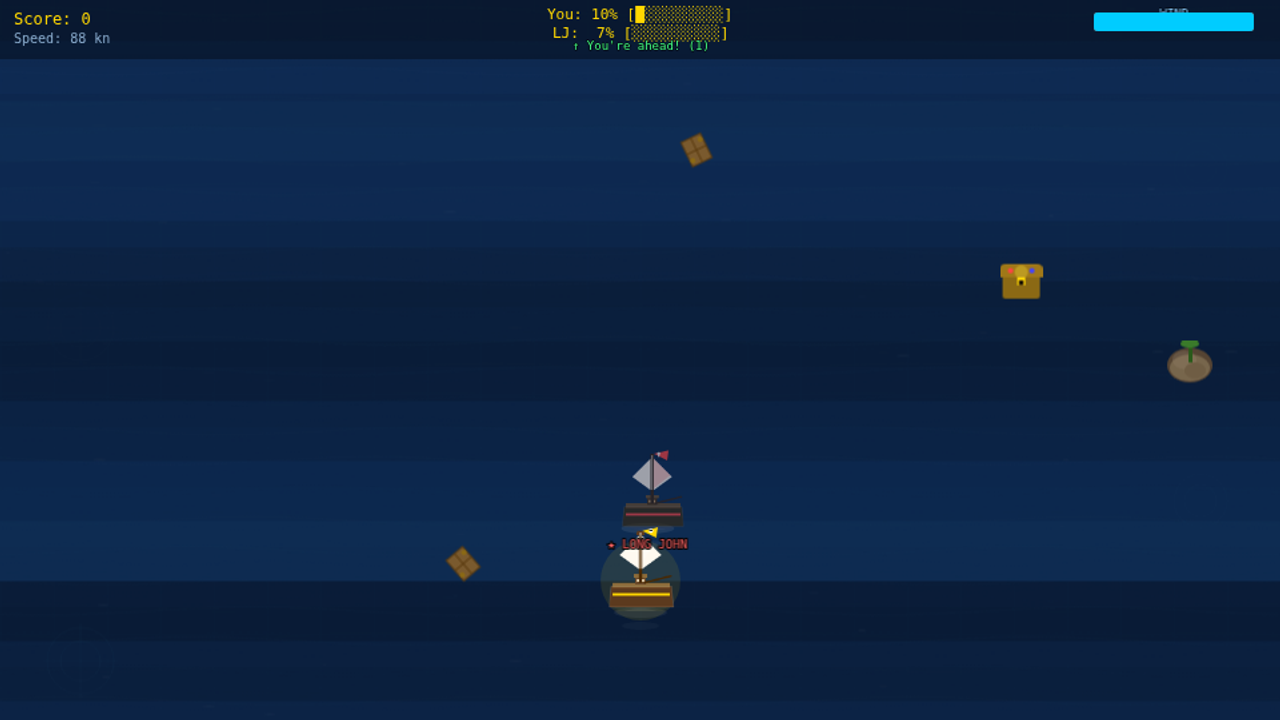
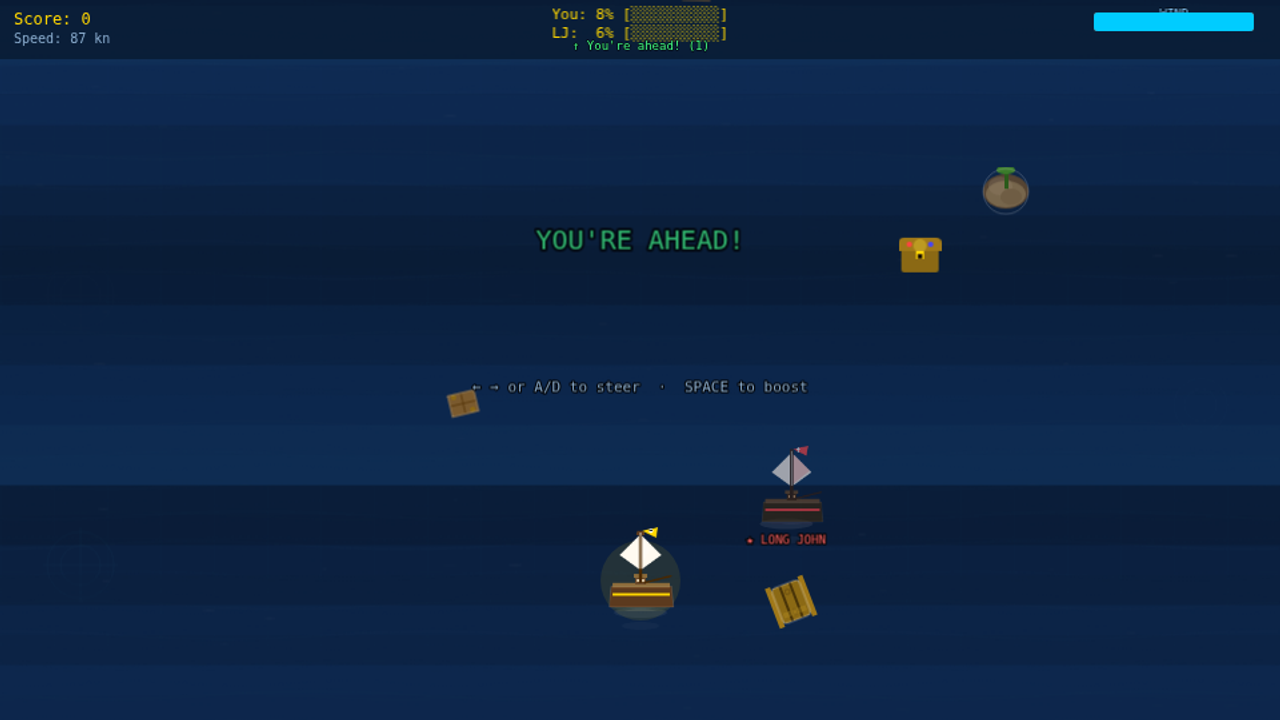
feat: upgrade Race to Treasure Island gameplay feel — countdown, boost, obstacles, finish, best score
Game feel improvements (Phase 3):
- Add opening countdown sequence (READY → SET → SAIL!, ~1.3s) with
  control hints before race starts, giving players time to orient
- Boost feedback overhaul: gold tint on player ship, speed lines alpha
  0.15→0.25, pulsating boost bar shifts between yellow/orange, sail
  indicator flaps more aggressively
- White outlines on all 4 obstacle textures (barrel, shipwreck, reef,
  debris) for readability against dark ocean water
- Gold sparkle burst (8 particles) on treasure chest pickup
- Finish sequence: gold celebration particles on win, overtake count
  in result summary, '★ NEW BEST! ★' indicator when score beats
  localStorage record

Balance tuning (Phase 4):
- aiMistakeChance 0.004 → 0.006 (rival makes slightly more mistakes)
- treasureSpawnInterval 6000 → 5000 (more treasure pickups)
- boostRegen 0.35 → 0.4 (faster wind meter recovery)

Best score (Phase 5):
- Persist best score to localStorage key 'pa-race-best'
- Display 'Best: N' and '★ NEW BEST! ★' on finish overlay
- Expose countdownPhase, bestScore, isNewBest in debug state

Test compatibility:
- Add __paRaceSkipCountdown window flag support in startCountdown()
  for test environments (also checkable via URL param)
- waitForPhaserReady helper waits for countdownPhase === 'done'
- All 76 Race Playwright tests pass (1 pre-existing skip = tab-blur)

Screenshots & copy:
- Refresh Race screenshot (149.1 KB, obstacle outlines visible)
[…]

diff --git a/src/games/race-to-treasure-island/scenes/RaceScene.ts b/src/games/race-to-treasure-island/scenes/RaceScene.ts
@@ -56,6 +56,9 @@ export class RaceScene extends Phaser.Scene {
   private hitBumpVelocity: number = 0;
   private overtakeCueVisible: boolean = false;
   private playerWon: boolean = false;
+  private countdownPhase: "ready" | "set" | "sail" | "done" = "done";
+  private bestScore: number = 0;
+  private isNewBest: boolean = false;
 
   // AI state
   private aiTargetX: number = GAME_WIDTH / 2;
@@ -118,6 +121,7 @@ export class RaceScene extends Phaser.Scene {
     this.setupBootMetrics();
     this.setupDebugHooks();
     this.exposeState();
+    this.startCountdown();
   }
 
   // ── Deterministic RNG ──
@@ -178,6 +182,11 @@ export class RaceScene extends Phaser.Scene {
 
     this.handleSystemInput();
     if (this.gameOver || this.raceFinished) return;
+
+    if (this.countdownPhase !== "done") {
+      this.exposeState();
+      return;
+    }
 
     if (this.paused) {
       this.exposeState();
@@ -243,6 +252,9 @@ export class RaceScene extends Phaser.Scene {
     this.hitBumpVelocity = 0;
     this.overtakeCueVisible = false;
     this.playerWon = false;
+    this.countdownPhase = "done";
+    this.bestScore = this.loadBestScore();
+    this.isNewBest = false;
     this.islandShown = false;
     this.paused = false;
     this.lastObstacleSpawn = 0;
@@ -623,8 +635,107 @@ export class RaceScene extends Phaser.Scene {
         lastHitType: this.lastHitType,
         lastHitAt: this.lastHitAt,
         playerWon: this.playerWon,
+        countdownPhase: this.countdownPhase,
+        bestScore: this.bestScore,
+        isNewBest: this.isNewBest,
       };
     }
+  }
+
+  private loadBestScore(): number {
+    try {
+      const raw = localStorage.getItem("pa-race-best");
+      if (raw) return JSON.parse(raw).score ?? 0;
+    } catch {}
+    return 0;
+  }
+
+  private saveBestScore(score: number): boolean {
+    if (score <= this.bestScore) return false;
+    try {
+      localStorage.setItem("pa-race-best", JSON.stringify({ score }));
+      this.bestScore = score;
+    } catch {}
+    return true;
+  }
+
+  private startCountdown(): void {
+    const skip =
+      typeof window !== "undefined" &&
+      ((window as any).__paRaceSkipCountdown ||
+        new URLSearchParams(window.location.search).has("skipCountdown"));
+    if (skip) {
+      this.countdownPhase = "done";
+      return;
+    }
+    this.countdownPhase = "ready";
+    this.physics.pause();
+
+    const cx = GAME_WIDTH / 2;
+    const cy = GAME_HEIGHT / 2;
+
+    const mainText = this.add
+      .text(cx, cy - 40, "READY", {
+        fontFamily: "monospace",
+        fontSize: "48px",
+        color: "#ffd700",
+        stroke: "#000",
+        strokeThickness: 6,
+      })
+      .setOrigin(0.5)
+      .setDepth(300);
+
+    this.add
+      .text(cx, cy + 20, "← → or A/D to steer  ·  SPACE to boost", {
+        fontFamily: "monospace",
+        fontSize: "11px",
+        color: "#88aacc",
+        stroke: "#000",
+        strokeThickness: 2,
+      })
+      .setOrigin(0.5)
+      .setDepth(300);
+
+    const pulsePhase = (cb: () => void) => {
+      this.tweens.add({
+        targets: mainText,
+        scale: 1.15,
+        duration: 150,
+        yoyo: true,
+        onComplete: cb,
+      });
+    };
+
+    const transition = (nextText: string, nextColor: string) => {
+      mainText.setText(nextText);
+      mainText.setColor(nextColor);
+      mainText.setScale(1);
+    };
+
+    pulsePhase(() => {
+      this.countdownPhase = "set";
+      transition("SET", "#ffd700");
+      this.time.delayedCall(200, () => {
+        pulsePhase(() => {
+          this.countdownPhase = "sail";
+          transition("SAIL!", "#44ff88");
+          this.time.delayedCall(200, () => {
+            this.tweens.add({
+              targets: mainText,
+              scale: 1.6,
+              alpha: 0,
+              duration: 300,
+              ease: "Power2",
+              onComplete: () => {
+                mainText.destroy();
+                this.countdownPhase = "done";
+                this.physics.resume();
+              },
+            });
+          });
+        });
+      });
+    });
   }
 
   private setupDebugHooks(): void {
@@ -746,6 +857,14 @@ export class RaceScene extends Phaser.Scene {
       this.boostLabelText.setColor("#ffdd44");
     } else {
       this.boostLabelText.setVisible(false);
+    }
+
+    if (this.stunActive) {
+      // Red tint from handleObstacleHit stays
+    } else if (this.boosting) {
+      this.player.setTint(0xffdd44);
+    } else {
+      this.player.clearTint();
     }
 
     if (this.boosting) {
@@ -948,8 +1067,19 @@ export class RaceScene extends Phaser.Scene {
 
     const pct = this.boostMeter / RACE_TUNING.boostMax;
     this.boostBarFill.setScale(pct, 1);
-    const fillColor = this.boostMeter > 30 ? 0x00ccff : 0xff4444;
-    this.boostBarFill.setTint(fillColor);
+    if (this.boosting) {
+      const pulse = 0.6 + Math.sin(this.time.now * 0.01) * 0.4;
+      this.boostBarFill.setTint(
+        Phaser.Display.Color.GetColor(
+          Math.floor(255),
+          Math.floor(180 * pulse),
+          0,
+        ),
+      );
+    } else {
+      const fillColor = this.boostMeter > 30 ? 0x00ccff : 0xff4444;
+      this.boostBarFill.setTint(fillColor);
+    }
   }
 
   private updateBackground(dt: number): void {
@@ -964,7 +1094,7 @@ export class RaceScene extends Phaser.Scene {
 
     if (this.speedLines) {
       if (this.boosting) {
-        this.speedLines.setAlpha(0.15 + Math.sin(this.time.now * 0.01) * 0.1);
+        this.speedLines.setAlpha(0.25 + Math.sin(this.time.now * 0.01) * 0.12);
         this.speedLines.clear();
         this.speedLines.lineStyle(1, 0x88ccff, 0.3);
         const speed = effectiveScroll * 1.5;
@@ -1233,6 +1363,22 @@ export class RaceScene extends Phaser.Scene {
       onComplete: () => text.destroy(),
     });
 
+    for (let i = 0; i < 8; i++) {
+      const p = this.add.image(tres.x, tres.y, "particle");
+      p.setTint(0xffd700);
+      p.setScale(0.6);
+      p.setDepth(20);
+      this.tweens.add({
+        targets: p,
+        x: p.x + Phaser.Math.Between(-20, 20),
+        y: p.y + Phaser.Math.Between(-20, 20),
+        alpha: 0,
+        scale: 0,
+        duration: 400,
+        onComplete: () => p.destroy(),
+      });
+    }
+
     tres.destroy();
   }
 
@@ -1246,6 +1392,8 @@ export class RaceScene extends Phaser.Scene {
     this.aiShip.setVelocity(0, 0);
     this.physics.pause();
 
+    this.isNewBest = this.saveBestScore(this.score);
+
     this.finishOverlay.setVisible(true);
 
     this.gameOverText.setText(
@@ -1254,23 +1402,58 @@ export class RaceScene extends Phaser.Scene {
     this.gameOverText.setColor(win ? "#ffd700" : "#ff6666");
     this.gameOverText.setVisible(true);
 
-    this.resultText.setText(
-      win
-        ? `You outran Long John!  Score: ${this.score}`
-        : `Use BOOST to overtake him next run.  Score: ${this.score}`,
-    );
-    this.resultText.setColor(win ? "#88ddbb" : "#ff8866");
+    const bestLine = this.bestScore > 0 ? `Best: ${this.bestScore}` : "";
+    const newBestLine = this.isNewBest ? "★ NEW BEST! ★" : "";
+    const overtakeLine = `Overtakes: ${this.overtakeCount}`;
+    let resultLines: string;
+    if (win) {
+      resultLines = [
+        `Score: ${this.score}`,
+        overtakeLine,
+        newBestLine,
+        bestLine,
+      ]
+        .filter(Boolean)
+        .join("\n");
+      this.resultText.setColor(this.isNewBest ? "#ffd700" : "#88ddbb");
+    } else {
+      resultLines = [
+        `Score: ${this.score}`,
+        overtakeLine,
+        "Use BOOST to overtake him next run!",
+      ].join("\n");
+      this.resultText.setColor("#ff8866");
+    }
+    this.resultText.setLineSpacing(4);
+    this.resultText.setText(resultLines);
     this.resultText.setVisible(true);
 
-    // Gold glow on island when player wins
-    if (win && this.treasureIsland?.active) {
-      this.tweens.add({
-        targets: this.treasureIsland,
-        scale: 1.15,
-        duration: 400,
-        yoyo: true,
-        ease: "Sine.easeInOut",
-      });
+    // Celebration effects on win
+    if (win) {
+      if (this.treasureIsland?.active) {
+        this.tweens.add({
+          targets: this.treasureIsland,
+          scale: 1.15,
+          duration: 400,
+          yoyo: true,
+          ease: "Sine.easeInOut",
+        });
+      }
+      for (let i = 0; i < 20; i++) {
+        const p = this.add.image(GAME_WIDTH / 2, GAME_HEIGHT / 2, "particle");
+        p.setTint(Math.random() < 0.5 ? 0xffd700 : 0xff8800);
+        p.setScale(0.5 + Math.random() * 0.5);
+        p.setDepth(250);
+        this.tweens.add({
+          targets: p,
+          x: p.x + Phaser.Math.Between(-180, 180),
+          y: p.y + Phaser.Math.Between(-120, 120),
+          alpha: 0,
+          scale: 0,
+          duration: 800 + Math.random() * 400,
+          onComplete: () => p.destroy(),
+        });
+      }
     }
 
     const restartBtn =

diff --git a/src/games/race-to-treasure-island/scenes/BootScene.ts b/src/games/race-to-treasure-island/scenes/BootScene.ts
@@ -140,6 +140,9 @@ export class BootScene extends Phaser.Scene {
     // Highlight
     g.fillStyle(0xc09828, 0.3);
     g.fillRect(6, 6, 4, 18);
+    // White outline for readability against dark ocean
+    g.lineStyle(1, 0xffffff, 0.35);
+    g.strokeRoundedRect(2, 4, 28, 22, 3);
     g.generateTexture("barrel", 32, 30);
     g.destroy();
   }
@@ -164,6 +167,9 @@ export class BootScene extends Phaser.Scene {
     g.fillRect(0, 22, 8, 3);
     g.fillRect(24, 20, 6, 4);
     g.fillRect(10, 26, 6, 2);
+    // White outline
+    g.lineStyle(1, 0xffffff, 0.25);
+    g.strokeRect(4, 8, 24, 20);
     g.generateTexture("shipwreck", 32, 30);
     g.destroy();
   }
@@ -185,6 +191,11 @@ export class BootScene extends Phaser.Scene {
     g.fillRect(19, 2, 3, 14);
     g.fillStyle(0x3a7a2a);
     g.fillEllipse(20, 2, 14, 6);
+    // White sandy outline
+    g.lineStyle(1, 0xffffff, 0.2);
+    g.beginPath();
+    g.arc(20, 18, 17, 0, Math.PI * 2);
+    g.strokePath();
     g.generateTexture("reef", 40, 36);
     g.destroy();
   }
@@ -203,6 +214,9 @@ export class BootScene extends Phaser.Scene {
     g.fillStyle(0x8b6914);
     g.fillCircle(6, 6, 2);
     g.fillCircle(18, 18, 2);
+    // White outline
+    g.lineStyle(1, 0xffffff, 0.3);
+    g.strokeRect(2, 4, 20, 16);
     g.generateTexture("debris", 24, 24);
     g.destroy();
   }

diff --git a/src/games/race-to-treasure-island/tuning.ts b/src/games/race-to-treasure-island/tuning.ts
@@ -6,14 +6,14 @@ export const RACE_TUNING = {
   boostMultiplier: 2.0,
   boostMax: 100,
   boostDrain: 0.7,
-  boostRegen: 0.35,
+  boostRegen: 0.4,
   stunDuration: 800,
   obstacleSpawnInterval: 1800,
-  treasureSpawnInterval: 6000,
+  treasureSpawnInterval: 5000,
   baseProgressRate: 120,
   boostProgressBonus: 120,
   aiBaseRate: 105,
-  aiMistakeChance: 0.004,
+  aiMistakeChance: 0.006,
   aiMistakeDuration: 800,
   islandThreshold: 0.75,
   boostVisualSpeedBonus: 60,

diff --git a/tests/web-native-games.spec.ts b/tests/web-native-games.spec.ts
@@ -49,6 +49,15 @@ async function waitForPhaserReady(page: Page): Promise<void> {
     },
     { timeout: 45000, polling: 200 },
   );
+
+  // Wait for any game countdown to complete
+  await page.waitForFunction(
+    () => {
+      const state = (window as any).__paRaceToTreasureIslandState;
+      return !state || state.countdownPhase === "done";
+    },
+    { timeout: 10000, polling: 200 },
+  );
 }
 
 for (const game of GAMES) {
